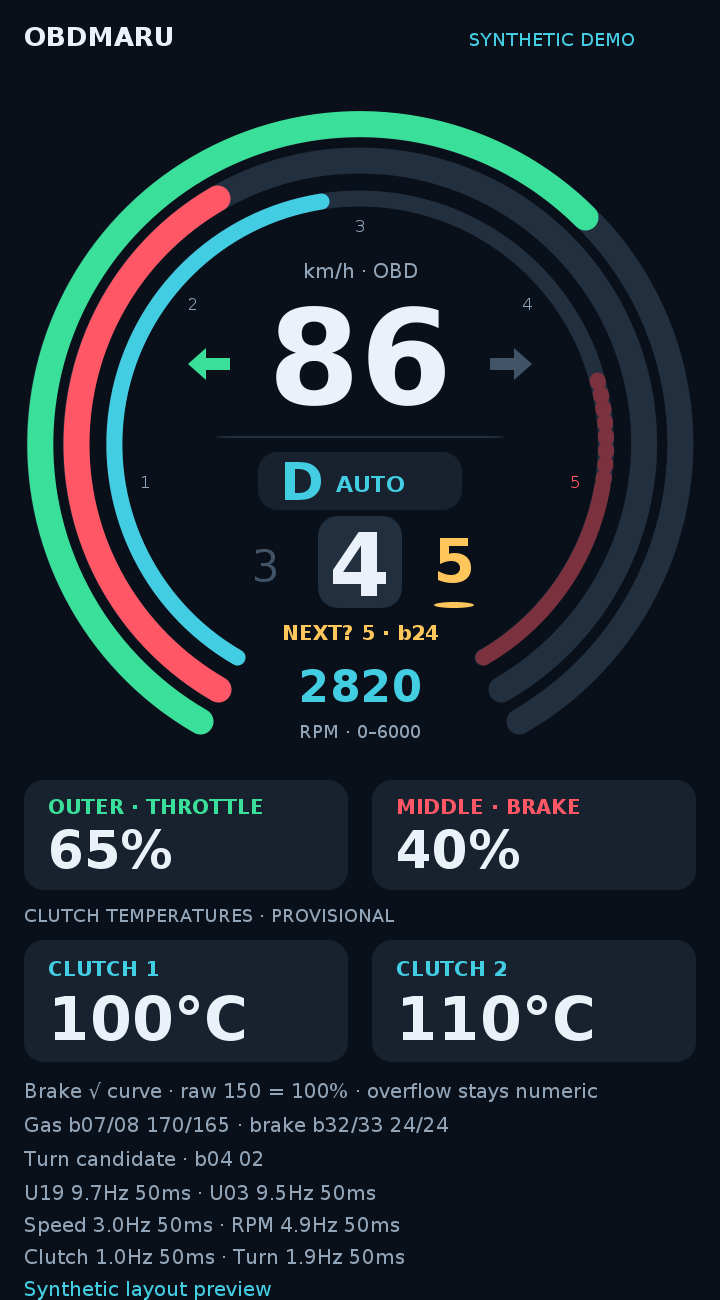
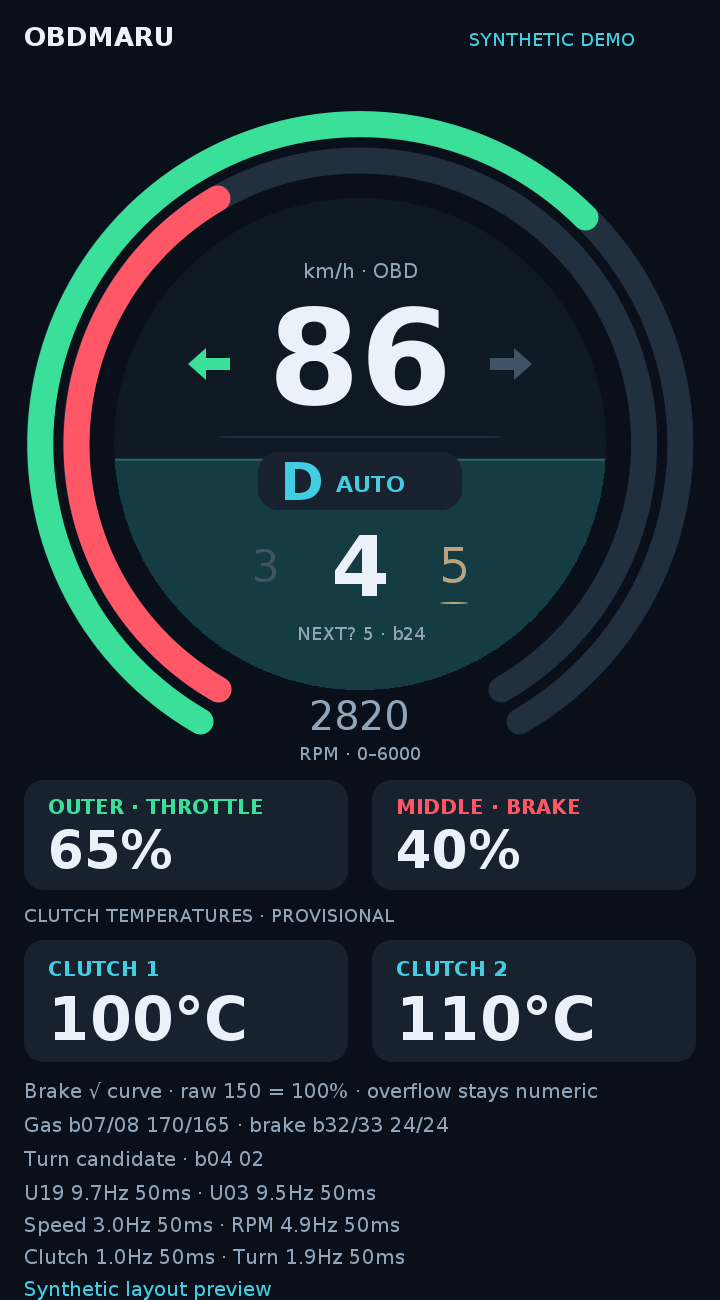
Fill RPM disk upward and soften gear highlights

Changed region(s): [[0.1222, 0.1231, 0.8556, 0.5846]]

diff --git a/dashboard/src/main/java/dev/obdmaru/dashboard/DashView.kt b/dashboard/src/main/java/dev/obdmaru/dashboard/DashView.kt
@@ -6,8 +6,6 @@ import android.os.SystemClock
 import android.view.View
 import java.util.Locale
 import kotlin.math.abs
-import kotlin.math.cos
-import kotlin.math.sin
 
 class DashView(context: Context) : View(context) {
     private val paint = Paint(Paint.ANTI_ALIAS_FLAG)
@@ -19,11 +17,13 @@ class DashView(context: Context) : View(context) {
     private val green = Color.rgb(58, 224, 153)
     private val red = Color.rgb(255, 87, 101)
     private val cyan = Color.rgb(67, 205, 227)
-    private val amber = Color.rgb(255, 198, 92)
+    private val amber = Color.rgb(185, 164, 127)
     private val panel = Color.rgb(24, 34, 47)
     private val track = Color.rgb(33, 47, 63)
-    private val redTrack = Color.rgb(124, 49, 62)
-    private val redDots = DashPathEffect(floatArrayOf(1f, 6f), 0f)
+    private val rpmBackground = Color.rgb(15, 25, 35)
+    private val rpmFill = Color.rgb(22, 60, 67)
+    private val rpmSurface = Color.rgb(41, 100, 106)
+    private val rpmClip = Path().apply { addCircle(180f, 222f, 123f, Path.Direction.CW) }
     private val bounds = RectF()
     private var gearTarget: Int? = null
     private var gearFrom = 0f
@@ -76,32 +76,21 @@ class DashView(context: Context) : View(context) {
         paint.style = Paint.Style.FILL
     }
 
-    private fun rpmRing(c: Canvas, rpm: Double?) {
-        ring(c, 123f, 8f, null, 6000.0, cyan)
-        paint.style = Paint.Style.STROKE
-        paint.strokeWidth = 8f
-        paint.color = redTrack
-        paint.pathEffect = redDots
-        c.drawArc(bounds, 345f, 25f, false, paint) // 4500–5000 RPM.
-        paint.pathEffect = null
-        c.drawArc(bounds, 370f, 50f, false, paint) // 5000–6000 RPM.
-        if (rpm != null && rpm > 0) {
-            val sweep = (300 * (rpm / 6000.0).coerceIn(0.0, 1.0)).toFloat()
-            paint.color = cyan
-            c.drawArc(bounds, 120f, minOf(sweep, 225f), false, paint)
-            if (sweep > 225) {
-                paint.color = red
-                paint.pathEffect = redDots
-                c.drawArc(bounds, 345f, minOf(sweep - 225f, 25f), false, paint)
-                paint.pathEffect = null
-                if (sweep > 250) c.drawArc(bounds, 370f, sweep - 250f, false, paint)
-            }
-        }
+    private fun rpmCircle(c: Canvas, rpm: Double?) {
         paint.style = Paint.Style.FILL
-        for (thousands in 1..5) {
-            val angle = Math.toRadians(120.0 + 50 * thousands)
-            text(c, thousands.toString(), 180 + 109 * cos(angle).toFloat(),
-                225 + 109 * sin(angle).toFloat(), 8f, if (thousands >= 5) red else muted, centered = true)
+        paint.color = rpmBackground
+        c.drawCircle(180f, 222f, 123f, paint)
+        if (rpm != null && rpm > 0) {
+            // A horizontal level rises through the whole disk, behind the readouts.
+            // The level, rather than a sweep angle, maps linearly to 0–6000 RPM.
+            val level = 345f - 246f * (rpm / 6000.0).coerceIn(0.0, 1.0).toFloat()
+            c.save()
+            c.clipPath(rpmClip)
+            paint.color = rpmFill
+            c.drawRect(57f, level, 303f, 345f, paint)
+            paint.color = rpmSurface
+            c.drawRect(57f, level, 303f, level + 1f, paint)
+            c.restore()
         }
     }
 
@@ -133,18 +122,16 @@ class DashView(context: Context) : View(context) {
                 val x = 180 + (gear - position) * 47
                 val active = gear == selected
                 val prepared = gear == t?.nextGear
-                if (active) box(c, x - 21, 258f, 42f, 46f, track)
                 text(c, gear.toString(), x, if (active) 298f else 291f,
-                    if (active) 44f else if (prepared) 30f else 22f,
-                    if (active) white else if (prepared) amber else dim, active || prepared, true)
-                if (prepared) box(c, x - 10, 301f, 20f, 3f, amber)
+                    if (active) 42f else if (prepared) 24f else 22f,
+                    if (active) white else if (prepared) amber else dim, active, true)
+                if (prepared) box(c, x - 7, 301f, 14f, 1f, amber)
             }
             c.restore()
             if (now - gearStarted < 180) postInvalidateOnAnimation()
         }
         val next = when (t?.nextGear) { in 1..7 -> t!!.nextGear.toString(); 14 -> "R"; else -> "—" }
-        text(c, "NEXT? $next · b24", 180f, 320f, 10f,
-            if (next == "—") muted else amber, true, true)
+        text(c, "NEXT? $next · b24", 180f, 320f, 9f, muted, centered = true)
     }
 
     override fun onDraw(c: Canvas) {
@@ -171,7 +158,7 @@ class DashView(context: Context) : View(context) {
 
         ring(c, 160f, 13f, t?.gas, 100.0, green)
         ring(c, 142f, 13f, brake?.percent, 100.0, red)
-        rpmRing(c, rpm)
+        rpmCircle(c, rpm)
         text(c, "km/h · OBD", 180f, 139f, 10f, muted, centered = true)
         text(c, ss?.bytes?.let { Telemetry.u(it, 0) }?.toString() ?: "—",
             180f, 202f, 66f, white, true, true)
@@ -186,8 +173,8 @@ class DashView(context: Context) : View(context) {
         text(c, mode, 140f, 250f, 26f, modeColor, true)
         text(c, modeLabel, 168f, 246f, 11f, modeColor, true)
         gears(c, t, now)
-        text(c, number(rpm), 180f, 351f, 22f, if (rpm != null && rpm >= 4500) red else cyan, true, true)
-        text(c, "RPM · 0–6000", 180f, 369f, 9f, muted, centered = true)
+        text(c, number(rpm), 180f, 365f, 20f, muted, centered = true)
+        text(c, if (rpm == null) "RPM · unavailable" else "RPM · 0–6000", 180f, 380f, 9f, muted, centered = true)
 
         fun pedal(x: Float, label: String, value: Double?, color: Int) {
             box(c, x, 390f, 162f, 55f, panel)

diff --git a/docs/index.html b/docs/index.html
@@ -21,8 +21,8 @@
 <section class="mode"><h3>Guided · spoken sequence</h3><p>Start while parked. Spoken instructions begin automatically after connection checks. The sequence covers parked brake patterns, progressive pedal inputs, cruise at 60/70 where appropriate, and adjacent manual shifts.</p><p>The guide finishes; recording keeps running until you park and stop it.</p></section>
 </div>
 <section class="mode" style="margin-top:24px"><h2 style="margin-top:0">Dashboard · circular telemetry display</h2>
-<p>Version 0.1.6 wraps thick throttle and brake arcs around an RPM arc, sweeping from 7 to 5 o'clock. Speed sits above a sliding gear sequence with a prominent D/M badge and amber provisional b24 highlight. RPM spans 0–6000, dotted red from 4500 and solid red from 5000. Two provisional clutch temperatures and sampled indicator arrows remain visible. Polling targets remain 10 Hz pedal/gear, 3 Hz speed, 1 Hz temperature display, 5 Hz RPM and up to 2 Hz optional indicators; actual rates depend on adapter throughput. A separate app alongside Magic and Watcher, with synthetic demo and raw logs.</p>
-<a class="download" href="https://github.com/EukkMaru/OBDMaru/releases/download/dashboard-v0.1.6/OBDMaru-Dash-v0.1.6.apk">Download Dashboard APK</a>
+<p>Version 0.1.7 keeps the thick throttle and brake arcs from 7 to 5 o'clock, with RPM filling the whole inner circle upward behind speed and gear. The fill spans 0–6000 RPM with subdued teal color. A sliding gear sequence has a prominent D/M badge, a larger current gear and a subtle provisional b24 highlight. Two provisional clutch temperatures and sampled indicator arrows remain visible. Polling targets remain 10 Hz pedal/gear, 3 Hz speed, 1 Hz temperature display, 5 Hz RPM and up to 2 Hz optional indicators; actual rates depend on adapter throughput. A separate app alongside Magic and Watcher, with synthetic demo and raw logs.</p>
+<a class="download" href="https://github.com/EukkMaru/OBDMaru/releases/download/dashboard-v0.1.7/OBDMaru-Dash-v0.1.7.apk">Download Dashboard APK</a>
 <a href="https://github.com/EukkMaru/OBDMaru/blob/main/docs/dashboard.md">Dashboard instructions and mappings</a>
 <p><img src="dashboard-circular-preview.png" alt="Circular dashboard layout with synthetic speed, D mode, current gear 4 and provisional b24 gear 5" style="width:100%;max-width:300px;border-radius:12px" loading="lazy"><br><small class="muted">Synthetic layout preview rendered from the drawing code on the host; Android font metrics may differ.</small></p>
 <p class="muted">Brake uses a square-root display curve: raw 150 = 100%, with more visual response at low inputs and compression at high inputs. Larger readings remain visible numerically. Pedal and clutch interpretations are provisional. Stop other OBD apps before connecting.</p></section>

diff --git a/dashboard/src/main/java/dev/obdmaru/dashboard/DashboardService.kt b/dashboard/src/main/java/dev/obdmaru/dashboard/DashboardService.kt
@@ -38,13 +38,13 @@ class DashboardService : Service() {
         var attempt = 0
         try {
             if (!demo) lease = ObdConnectionGuard.acquire(this)
-            log = SessionLog(this,address,"Dashboard",demo,"dashboard-0.1.6");lastFile=log.file
+            log = SessionLog(this,address,"Dashboard",demo,"dashboard-0.1.7");lastFile=log.file
             val session = log
             log.event("obd_connection_guard", "exclusive" to !demo, "demo" to demo)
             log.event("dashboard_start","tcm_target_hz" to 10,"brake_target_hz" to 10,"speed_target_hz" to 3,"clutch_display_hz" to 1,
                 "rpm_target_hz" to 5, "indicators_target_hz" to 2, "indicators_candidate" to true,
-                "display_layout" to "circular_gear_strip", "rpm_arc_reference" to 6000,
-                "rpm_dotted_red_start" to 4500, "rpm_solid_red_start" to 5000,
+                "display_layout" to "circular_level_gear_strip", "rpm_fill_reference" to 6000,
+                "rpm_fill_mapping" to "linear_vertical_level",
                 "brake_display_curve" to "square_root", "brake_raw_reference" to 150, "brake_display_exponent" to 0.5,
                 "mapping" to "U19 b08 pedal /254; U03 b32 brake display sqrt(raw/150)*100; U19 low nibble b23 gear; U19 b29:31 and b31:33 BE *2-40 provisional temperatures; standard 010D speed; standard 010C RPM /4; indicator candidate 770/22BC08 b04 masks 02 left,04 right")
             poller = DashboardPolling(

diff --git a/dashboard/src/androidTest/java/dev/obdmaru/dashboard/DashboardSmokeTest.kt b/dashboard/src/androidTest/java/dev/obdmaru/dashboard/DashboardSmokeTest.kt
@@ -23,7 +23,7 @@ class DashboardSmokeTest {
   assertTrue(DashboardService.state.samples.isEmpty())
   val file=DashboardService.lastFile!!
   val log=ctx.contentResolver.openInputStream(Uri.parse("content://dev.obdmaru.dashboard.logs/${file.name}"))!!.bufferedReader().use{it.readText()}
-  assertTrue(log.contains("dashboard_demo_sample"));assertTrue(log.contains("dashboard-0.1.6"))
+  assertTrue(log.contains("dashboard_demo_sample"));assertTrue(log.contains("dashboard-0.1.7"))
  }
  private fun await(test:()->Boolean){val end=SystemClock.elapsedRealtime()+12000;while(!test()&&SystemClock.elapsedRealtime()<end)Thread.sleep(50);assertTrue("Timed out",test())}
 }

diff --git a/docs/dashboard.md b/docs/dashboard.md
@@ -1,4 +1,4 @@
-# OBDMaru Dash 0.1.6
+# OBDMaru Dash 0.1.7
 
 A portrait circular telemetry display, installed separately as `dev.obdmaru.dashboard` alongside Magic and Watcher. No cruise interpretation is included.
 
@@ -53,7 +53,7 @@ Seventeen Dashboard JVM tests now cover the above behavior, including slow-link 
 
 ## Exclusive connection guard
 
-This version shares a process-lifetime OS socket-name lock with Magic 2.0.2, Watcher 0.1.1 and Dash 0.1.6. Update every installed OBDMaru peer; older builds cause a clear update-required message before Bluetooth connects. While one real session owns the lock, another app names that owner and stops its start attempt. The lock remains held during reconnects and is released after closing Bluetooth, or automatically if the process dies. Demo sessions do not connect and bypass the lock. Arbitrary third-party apps are not controllable or reliably detectable; stop them manually.
+This version shares a process-lifetime OS socket-name lock with Magic 2.0.2, Watcher 0.1.1 and Dash 0.1.7. Update every installed OBDMaru peer; older builds cause a clear update-required message before Bluetooth connects. While one real session owns the lock, another app names that owner and stops its start attempt. The lock remains held during reconnects and is released after closing Bluetooth, or automatically if the process dies. Demo sessions do not connect and bypass the lock. Arbitrary third-party apps are not controllable or reliably detectable; stop them manually.
 
 ## Version 0.1.4 brake response
 
@@ -75,6 +75,8 @@ Twenty-six Dashboard/shared JVM tests cover RPM byte order/scaling, indicator ma
 
 ## Version 0.1.6 circular layout
 
+Historical layout; version 0.1.7 below replaces the RPM arc and reduces the highlights.
+
 Three concentric bar arcs run clockwise from roughly 7 o'clock to 5 o'clock. Outer green is throttle; middle red is the existing nonlinear relative brake percentage; inner cyan fills with canonical engine RPM. The RPM scale is 0–6000, with dotted red from 4500–5000 and solid red from 5000–6000, matching the owner's instrument-cluster description. Filled portions of the red zone become brighter red. Arc fill clips at its scale limit while numeric RPM and pedal readings retain overflow. These zones are display markings, not new ECU limits or an inferred shift recommendation.
 
 The upper interior shows plain numeric OBD speed. The lower interior has a large `D AUTO` / `M MANUAL` badge (or P/R/N/unknown) and a horizontal gear strip. The current forward gear is largest in white; neighboring gears slide past it on adjacent shifts. b24's gear is amber with an underline and a persistent `NEXT? … · b24` label, even when it lies outside the visible strip. If b23 and b24 agree, the current gear remains white and gains the amber underline. b24 is still provisional; the display does not establish clutch preselection. P/R/N and missing gear data show their literal state instead of an invented forward gear. Non-adjacent jumps and recovery from missing data snap directly to the reported gear; only the strip position is animated for 180 ms, never speed, pedal, gear values or blink timing.
@@ -82,3 +84,11 @@ The upper interior shows plain numeric OBD speed. The lower interior has a large
 Clutch readouts, sampled indicator arrows, raw-byte comparisons, measured per-channel rates, stale-data handling and logging remain available. All polling targets and the brake curve are unchanged. Synthetic demo now alternates D/M and provides a separate b24 value to exercise the highlights; this is generated data, not evidence about the real field.
 
 Validation: APK and test-APK compilation, lint and the 26 existing JVM tests pass. Layout previews execute the drawing code with a lightweight host graphics adapter using synthetic states (D, M, P, seventh gear, brake overflow and unavailable data); font metrics can differ on Android. No emulator or vehicle check was performed.
+
+## Version 0.1.7 circular RPM fill
+
+RPM now fills the entire inner disk upward behind speed and gear, with a subdued teal fill and horizontal surface. The fill's vertical level maps linearly from 0 RPM (empty) to 6000 RPM (full). Numeric RPM retains values above the fill scale; missing/stale data shows unavailable with no filled area. There is no RPM arc, tick scale, redline marking or color change at 4500/5000. The owner's redline description was reference information, not a request for those markings.
+
+Current gear keeps its larger white number without the rectangular highlight. b24 uses a smaller, muted amber number and a thin underline; the persistent `NEXT? … · b24` caption is muted and remains provisional. When b24 equals the current gear, only the subtle underline is added. D/M stays prominent with a calmer manual-mode color. The outer throttle/brake arcs, sliding behavior, telemetry, polling targets, brake curve and logging are unchanged.
+
+Validation: the 26 existing JVM tests, APK/test-APK compilation and lint pass. Synthetic host renders cover empty, partial and full RPM fill, matching b23/b24, D/M, P, seventh gear and missing data. No emulator or phone validation was performed.

diff --git a/README.md b/README.md
@@ -69,7 +69,7 @@ A separately installable portrait raw-byte monitor for the 20 observed unknown b
 
 ## Dashboard app
 
-[OBDMaru Dash](docs/dashboard.md) is a separate portrait display with circular throttle/brake/RPM arcs, numeric OBD speed, a sliding gear strip, prominent D/M mode, provisional b24 highlighting, sampled indicators and clutch temperatures. Includes synthetic demo, sample freshness and raw logs. Build with `./gradlew :dashboard:assembleDebug`.
+[OBDMaru Dash](docs/dashboard.md) is a separate portrait display with throttle/brake arcs around an RPM circle that fills upward, numeric OBD speed, a sliding gear strip, prominent D/M mode, subtle provisional b24 highlighting, sampled indicators and clutch temperatures. Includes synthetic demo, sample freshness and raw logs. Build with `./gradlew :dashboard:assembleDebug`.
 
 ## Magic 2.0.1: continuous control instructions
 
